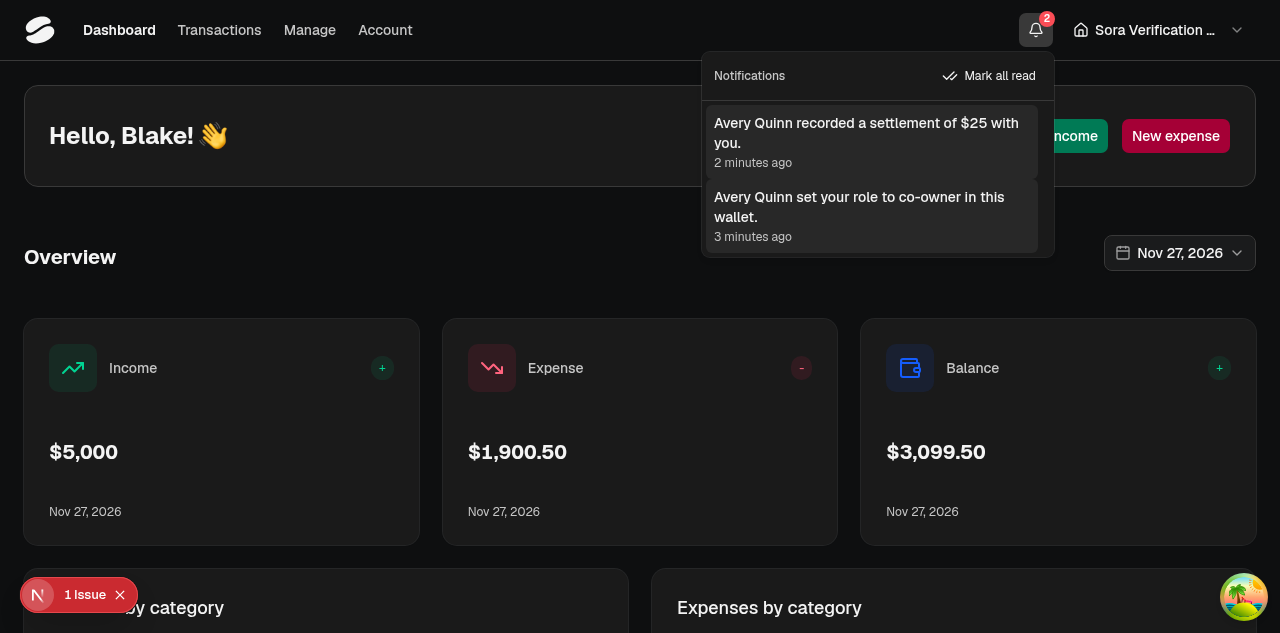
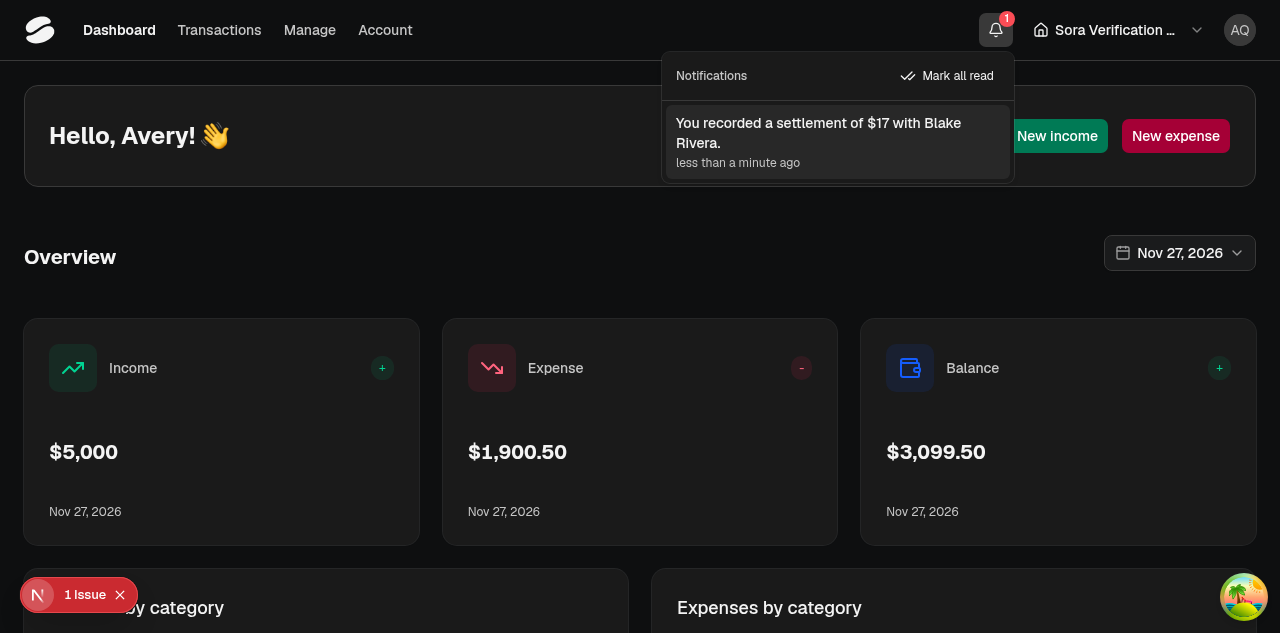
fix: balance notification popover padding

diff --git a/components/NotificationBell.tsx b/components/NotificationBell.tsx
@@ -159,7 +159,7 @@ const NotificationBell = () => {
             align="end"
             className="w-[22rem] max-w-[calc(100vw-2rem)]"
           >
-            <div className="flex items-center justify-between px-2 py-1.5">
+            <div className="flex items-center justify-between px-2.5 py-1.5">
               <DropdownMenuGroup>
                 <DropdownMenuLabel className="p-0">
                   Notifications
@@ -176,11 +176,11 @@ const NotificationBell = () => {
             </div>
             <DropdownMenuSeparator />
             {notifications.length === 0 ? (
-              <p className="px-2 py-6 text-center text-sm text-muted-foreground">
+              <p className="px-2.5 py-6 text-center text-sm text-muted-foreground">
                 No notifications yet
               </p>
             ) : (
-              <ScrollArea viewportClassName="max-h-80 pr-3">
+              <ScrollArea viewportClassName="max-h-80">
                 {notifications.map((notification) => {
                   const isWarning = notification.type === UNUSUAL_SPENDING_TYPE;
                   const isUnread = !notification.readAt;
@@ -189,7 +189,7 @@ const NotificationBell = () => {
                     { addSuffix: true },
                   );
                   const rowClass = cn(
-                    "flex items-start gap-2 px-2 py-2 whitespace-normal",
+                    "flex items-start gap-2 px-2.5 py-2 whitespace-normal",
                     isUnread &&
                       (isWarning ? "bg-amber-500/10" : "bg-accent/50"),
                   );
